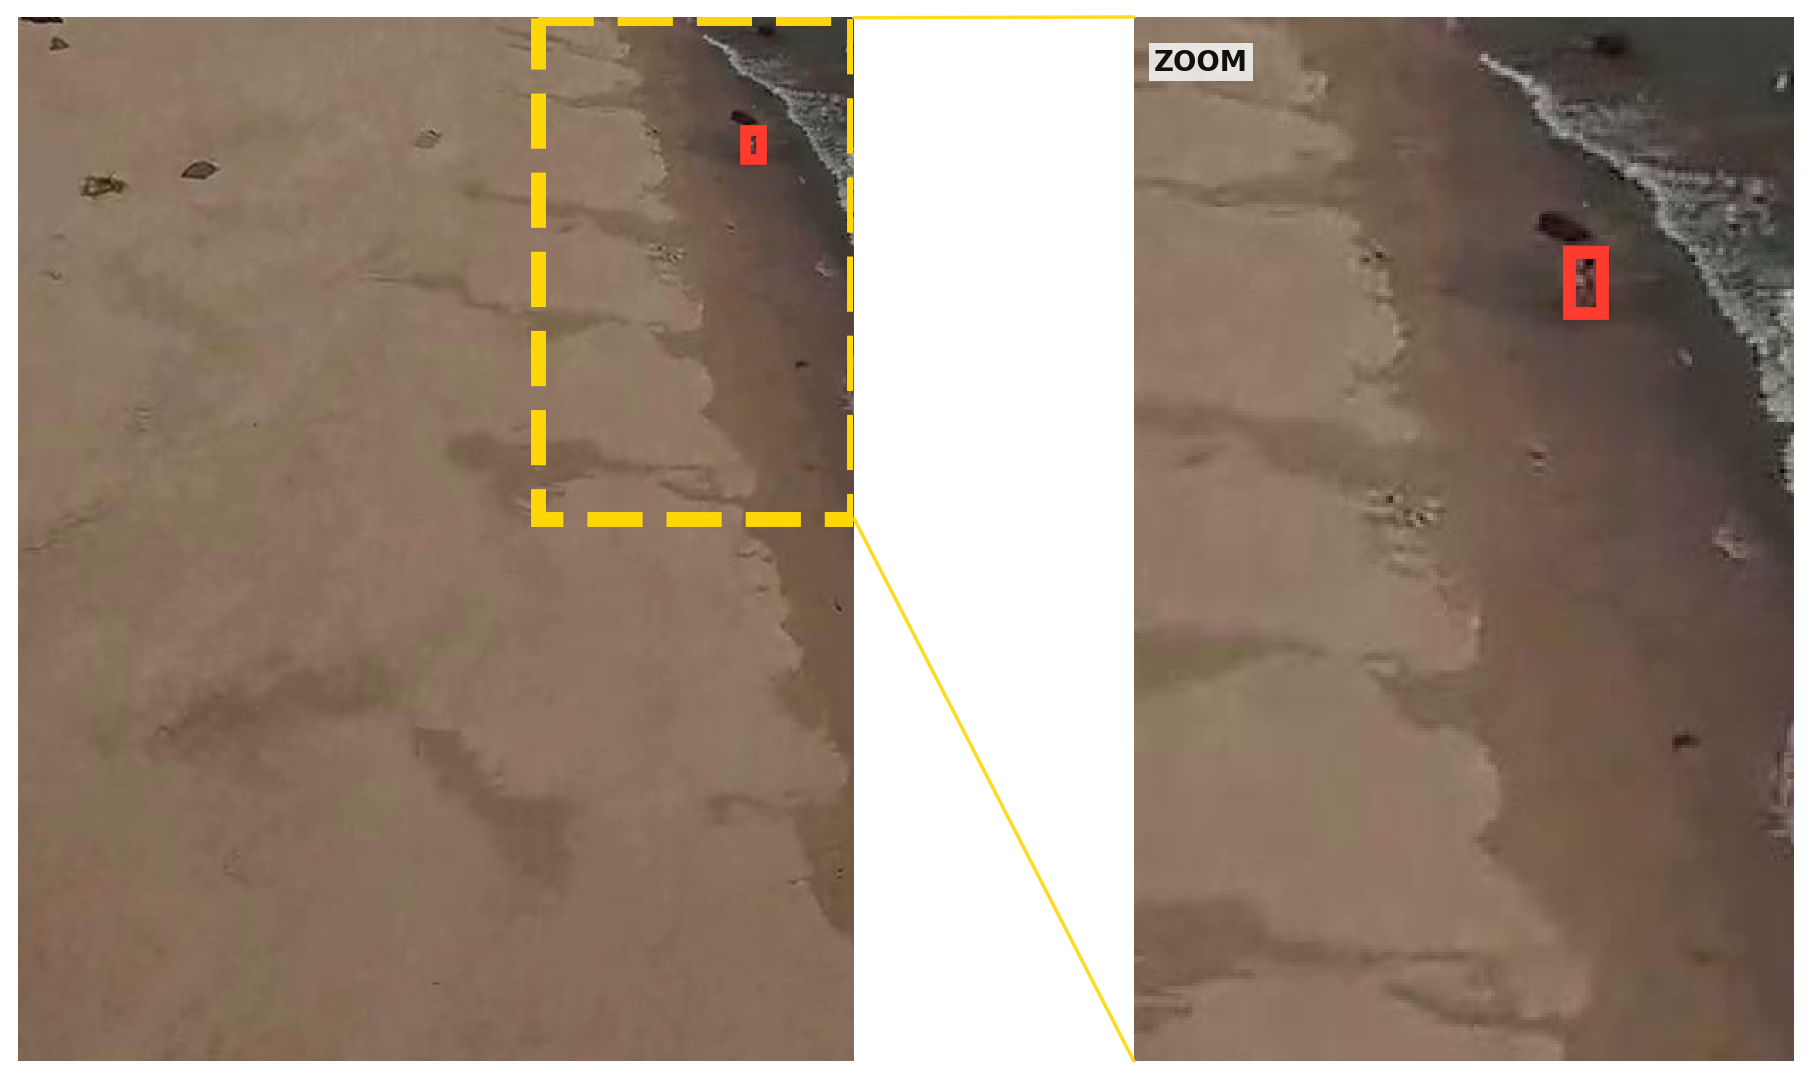
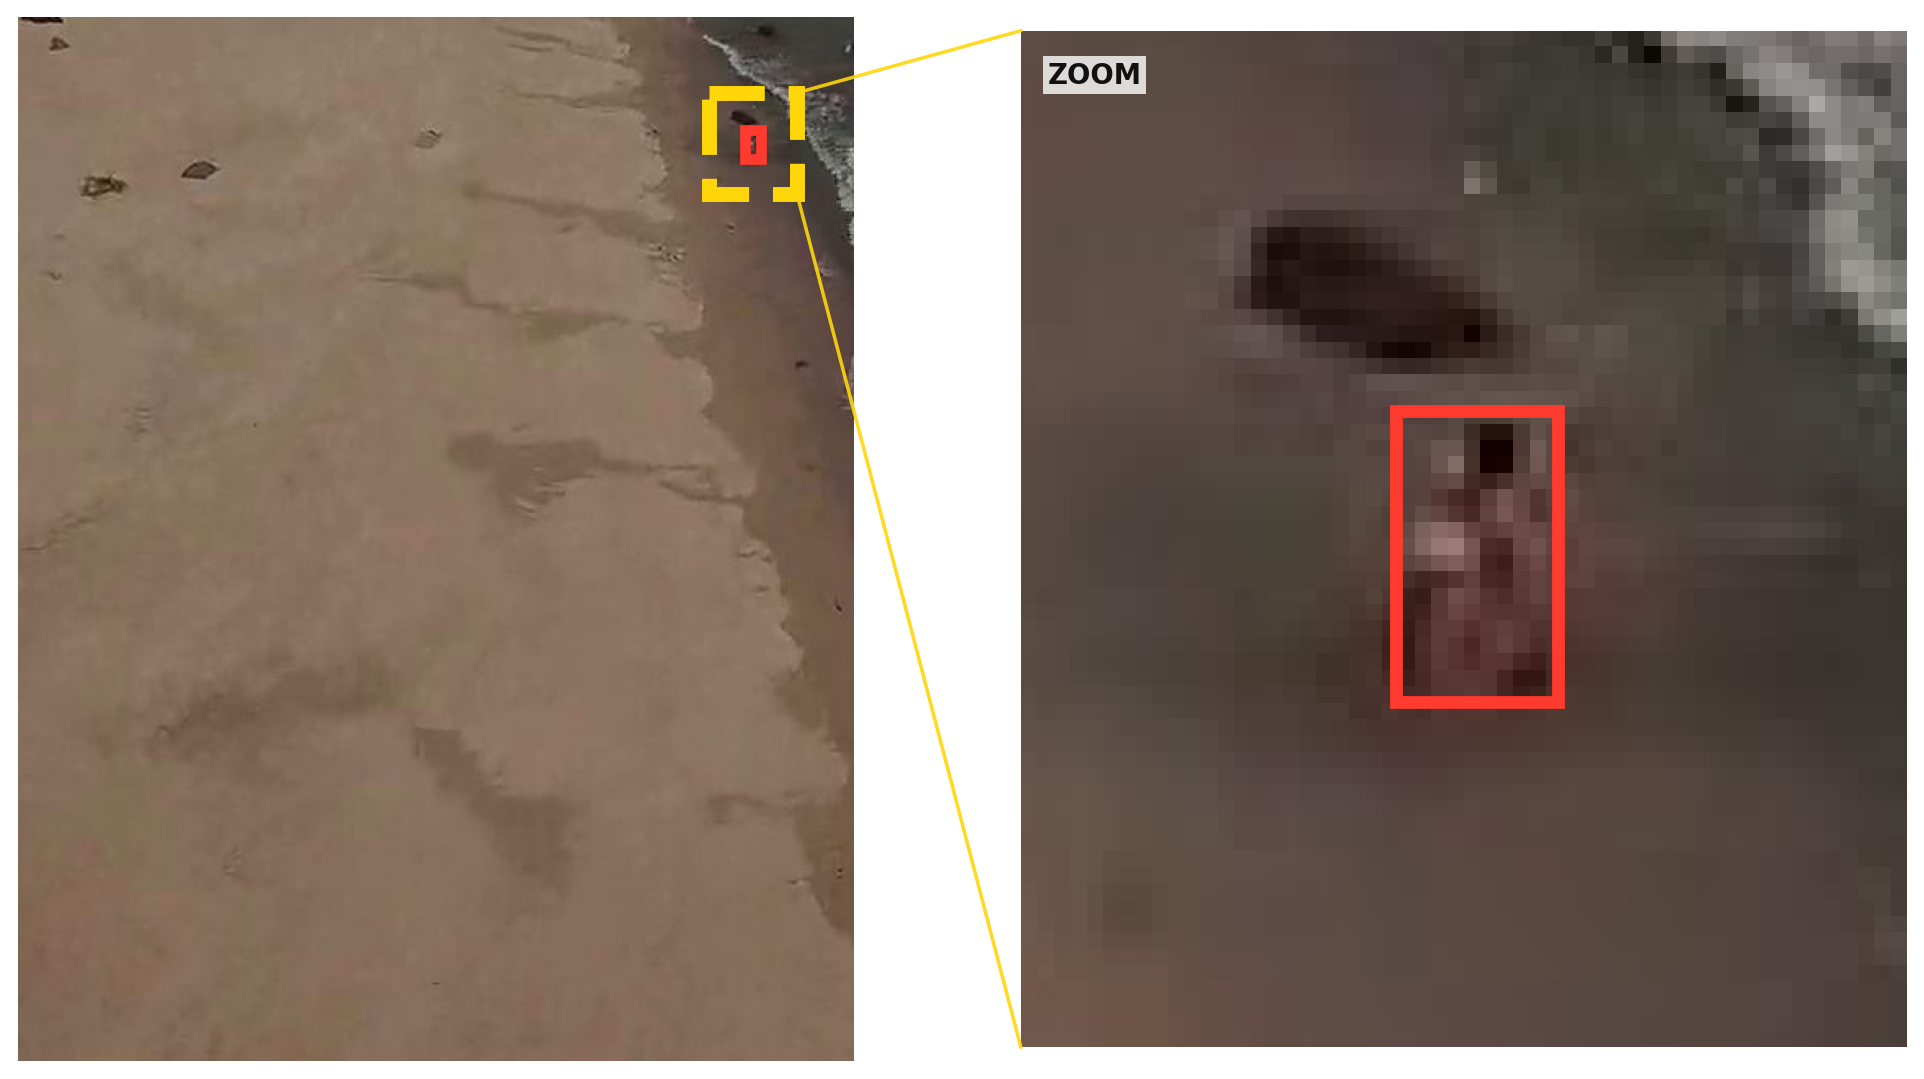
Tighten zoom crops around individual objects

diff --git a/misc/plot_dataset_examples.py b/misc/plot_dataset_examples.py
@@ -131,48 +131,47 @@ def plot_sheet(items, dataset_label: str, class_name: str, output_path: Path) ->
     plt.close(fig)
 
 
-def zoom_bounds(
-    boxes: list[tuple[float, float, float, float]],
-    width: int,
-    height: int,
-    crop_fraction: tuple[float, float],
-) -> tuple[int, int, int, int]:
-    """Find a fixed-size local window containing the densest GT cluster.
-
-    A fixed window prevents sparse objects spread over an image from making the
-    crop expand to the full frame. Candidate centers come from GT centers and a
-    small image grid; ties prefer the window containing larger objects.
-    """
-    crop_width = max(32, min(width - 1, int(width * crop_fraction[0])))
-    crop_height = max(32, min(height - 1, int(height * crop_fraction[1])))
-    max_left = width - crop_width
-    max_top = height - crop_height
-    centers = [(0.5 * (box[0] + box[2]), 0.5 * (box[1] + box[3])) for box in boxes]
-    candidates = centers + [
-        (width * x, height * y)
-        for x in (0.2, 0.4, 0.6, 0.8)
-        for y in (0.2, 0.4, 0.6, 0.8)
-    ]
-
-    best = None
-    for center_x, center_y in candidates:
-        left = int(max(0, min(max_left, center_x - crop_width / 2)))
-        top = int(max(0, min(max_top, center_y - crop_height / 2)))
-        right, bottom = left + crop_width, top + crop_height
-        inside = [box for box in boxes if left <= 0.5 * (box[0] + box[2]) <= right and top <= 0.5 * (box[1] + box[3]) <= bottom]
-        score = (len(inside), sum((box[2] - box[0]) * (box[3] - box[1]) for box in inside))
-        if best is None or score > best[0]:
-            best = (score, (left, top, right, bottom))
-    return best[1]
+def zoom_group(boxes: list[tuple[float, float, float, float]]) -> tuple[int, ...]:
+    """Choose one GT box, or a pair only when their centers are very close."""
+    centers = [((box[0] + box[2]) / 2, (box[1] + box[3]) / 2) for box in boxes]
+    candidates: list[tuple[tuple[int, float, float], tuple[int, ...]]] = []
+    for index, box in enumerate(boxes):
+        area = (box[2] - box[0]) * (box[3] - box[1])
+        candidates.append(((1, 0.0, area), (index,)))
+        for other in range(index + 1, len(boxes)):
+            other_box = boxes[other]
+            distance = ((centers[index][0] - centers[other][0]) ** 2 + (centers[index][1] - centers[other][1]) ** 2) ** 0.5
+            scale = max(box[2] - box[0], box[3] - box[1], other_box[2] - other_box[0], other_box[3] - other_box[1])
+            if distance / max(scale, 1.0) <= 2.0:
+                pair_area = (box[2] - box[0]) * (box[3] - box[1]) + (other_box[2] - other_box[0]) * (other_box[3] - other_box[1])
+                candidates.append(((2, -distance / max(scale, 1.0), pair_area), (index, other)))
+    return max(candidates, key=lambda candidate: candidate[0])[1]
 
 
-def plot_zoom_one(item, output_path: Path, crop_fraction: tuple[float, float]) -> None:
+def zoom_bounds(boxes: list[tuple[float, float, float, float]], width: int, height: int) -> tuple[int, int, int, int]:
+    """Return a tight padded crop around one object or a close pair."""
+    selected = [boxes[index] for index in zoom_group(boxes)]
+    x1 = min(box[0] for box in selected)
+    y1 = min(box[1] for box in selected)
+    x2 = max(box[2] for box in selected)
+    y2 = max(box[3] for box in selected)
+    padding = max(10.0, 1.25 * max(x2 - x1, y2 - y1))
+    return (
+        max(0, int(x1 - padding)),
+        max(0, int(y1 - padding)),
+        min(width, int(x2 + padding)),
+        min(height, int(y2 + padding)),
+    )
+
+
+def plot_zoom_one(item, output_path: Path) -> None:
     """Plot the full image with a crop indication next to its enlarged view."""
     _, image_path, label_path = item
     image = Image.open(image_path).convert("RGB")
     width, height = image.size
     boxes = read_boxes(label_path, width, height)
-    left, top, right, bottom = zoom_bounds(boxes, width, height, crop_fraction)
+    selected_indices = zoom_group(boxes)
+    left, top, right, bottom = zoom_bounds(boxes, width, height)
     crop = image.crop((left, top, right, bottom))
 
     fig, (ax_original, ax_zoom) = plt.subplots(
@@ -191,10 +190,10 @@ def plot_zoom_one(item, output_path: Path, crop_fraction: tuple[float, float]) -
     ax_original.axis("off")
 
     ax_zoom.imshow(crop)
-    for x1, y1, x2, y2 in boxes:
+    for index in selected_indices:
+        x1, y1, x2, y2 = boxes[index]
         center_x, center_y = 0.5 * (x1 + x2), 0.5 * (y1 + y2)
-        if left <= center_x <= right and top <= center_y <= bottom:
-            ax_zoom.add_patch(Rectangle((x1 - left, y1 - top), x2 - x1, y2 - y1, fill=False, edgecolor=box_color, linewidth=line_width * 1.2))
+        ax_zoom.add_patch(Rectangle((x1 - left, y1 - top), x2 - x1, y2 - y1, fill=False, edgecolor=box_color, linewidth=line_width * 1.2))
     ax_zoom.text(0.03, 0.97, "ZOOM", transform=ax_zoom.transAxes, va="top", ha="left", color="#111111", fontsize=11, weight="bold", bbox={"facecolor": "white", "alpha": 0.8, "edgecolor": "none", "pad": 2})
     ax_zoom.axis("off")
 
@@ -226,9 +225,8 @@ def main() -> None:
         plot_sheet(items, config["label"], config["class_name"], dataset_dir / "contact_sheet.png")
         if name in {"levir_ship", "tiny_person"}:
             zoom_dir = args.output_dir / "zoomed_examples" / name
-            crop_fraction = (0.60, 0.60) if name == "levir_ship" else (0.38, 0.48)
             for index, item in enumerate(items, start=1):
-                plot_zoom_one(item, zoom_dir / f"example_{index}.png", crop_fraction)
+                plot_zoom_one(item, zoom_dir / f"example_{index}.png")
         print(f"{name}: " + ", ".join(f"{count} boxes ({path.name})" for count, path, _ in items))
         print(f"  output: {dataset_dir}")
 

diff --git a/docs/reports/dataset_examples/README.md b/docs/reports/dataset_examples/README.md
@@ -13,7 +13,7 @@ For LEVIR-Ship and TinyPerson, original-plus-zoom figures are also available und
 - `zoomed_examples/levir_ship/`
 - `zoomed_examples/tiny_person/`
 
-These figures show the full image with red ground-truth boxes, a yellow dashed crop region, connector lines, and an enlarged crop with the red boxes repeated. The crop is a fixed local window selected to contain the densest nearby group of ground-truth objects, rather than the union of all annotations in the image.
+These figures show the full image with red ground-truth boxes, a yellow dashed crop region, connector lines, and an enlarged crop with the red boxes repeated. The crop is tightly centered on one object; a second object is included only when its center is very close to the first.
 
 Recreate them from the repository root with:
 
